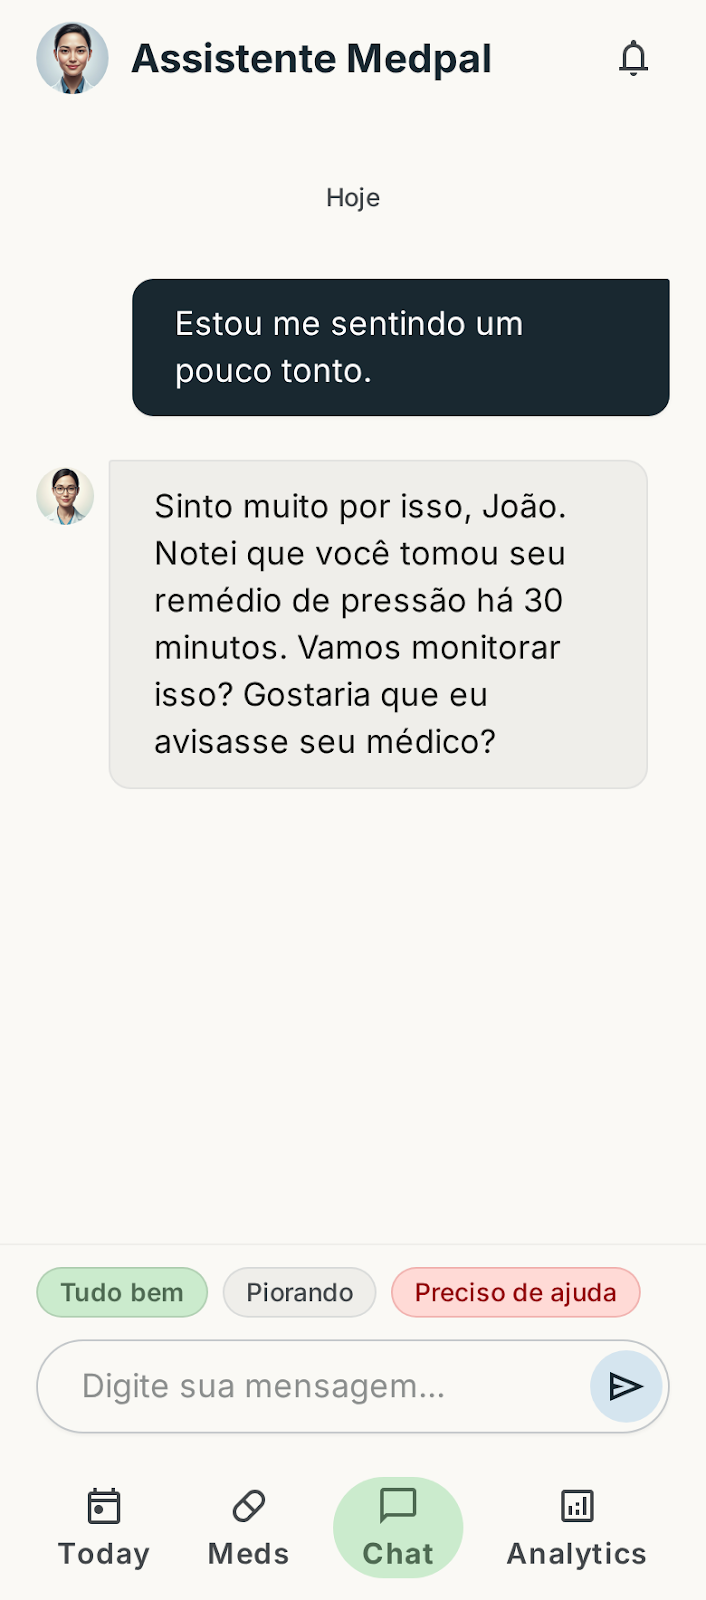
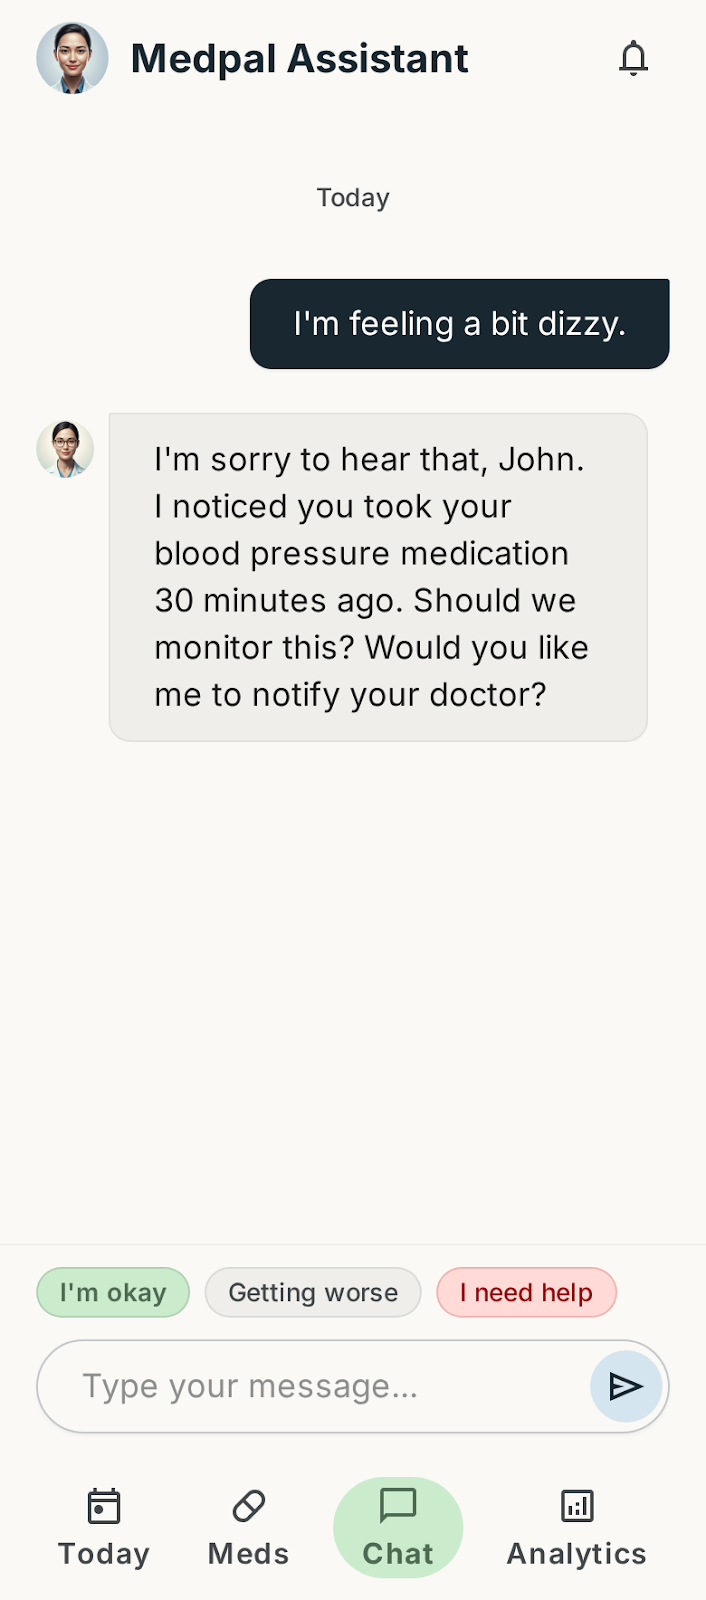
Replace Portuguese screens with English, add caregiver & demo sections
- Swap all app screenshots to English versions (today, meds, chat,
  analytics, hero, patient, doctor benefits)
- Add caregiver/family section with remote monitoring + proactive care
- Add demo section (Try Magic Scan, Talk to Assistant, View Sample Report)
- Update feature list to match feature.md: prescription upload flow,
  INFARMED drug matching, confirmation gate, daily mood check-in
- Update hero CTA to lead with the box price (€19.99)
- Add Caregivers nav link

diff --git a/landing/src/App.jsx b/landing/src/App.jsx
@@ -2,10 +2,10 @@ import { useState } from 'react'
 import './App.css'
 
 const SCREENS = [
-  { id: 'today',     label: 'Today',     src: '/screens/today.png',     title: 'Daily Dose Tracker', desc: "See all your medications for today at a glance. Mark them taken, snooze a reminder, or check what's coming next — in seconds." },
-  { id: 'meds',      label: 'My Meds',   src: '/screens/meds.png',      title: 'Your Digital Medicine Cabinet', desc: 'All your medications in one place. Continuous use, as-needed, and historical records — always organised and up to date.' },
-  { id: 'chat',      label: 'Assistant', src: '/screens/chat.png',       title: 'AI Health Assistant', desc: 'Not feeling well? Tell MedPal. It cross-checks your symptoms with your medication history and connects you to your care team when needed.' },
-  { id: 'analytics', label: 'Reports',   src: '/screens/analytics.png', title: 'Health Reports', desc: 'Track your adherence over time. Share a full medication history with your doctor in one tap — no guesswork, just real data.' },
+  { id: 'today',     label: 'Today',     src: '/screens/today.png',     title: 'Daily Dose Tracker', desc: "See every medication scheduled for today. Mark doses taken, snooze a reminder, or check what's next — in seconds, one-handed." },
+  { id: 'meds',      label: 'My Meds',   src: '/screens/meds.png',      title: 'Your Digital Medicine Cabinet', desc: 'Every medication in one place — daily use, as-needed, and past treatments. Scan a new prescription or add one manually at any time.' },
+  { id: 'chat',      label: 'Assistant', src: '/screens/chat.png',       title: 'MedPal Assistant', desc: "Feeling off? Tell MedPal. It cross-checks your symptoms against your current medications and can alert your doctor or care team if needed." },
+  { id: 'analytics', label: 'Reports',   src: '/screens/analytics.png', title: 'Reports & Adherence', desc: 'Track your adherence over 30 days. Log mood and side effects daily. Flip on Doctor Mode to share a clean summary at your next appointment.' },
 ]
 
 const FEATURE_GROUPS = [
@@ -13,47 +13,49 @@ const FEATURE_GROUPS = [
     category: 'Prescription Management',
     icon: '📋',
     features: [
-      'Automatic sync when your doctor sends a prescription',
-      'Snap any paper prescription — OCR extracts name, dosage & instructions instantly',
-      'Reads handwritten doctor notes accurately',
-      'Supports all standard prescription formats',
+      'Upload any PDF prescription — extracted directly, no AI needed, instant',
+      'Snap a photo of a paper or handwritten prescription — AI reads it in seconds',
+      'Review and confirm every medication before anything is saved — non-skippable safety gate',
+      'Drug names matched against the official INFARMED medical database',
     ],
   },
   {
     category: 'Smart Reminders & Tracking',
     icon: '🔔',
     features: [
-      'Personalised intake reminders based on your exact dosing schedule',
+      'Personalised intake reminders based on your exact schedule and routine',
       'Refill alerts before you run out — no gaps in treatment',
-      'AI voice calls for users who miss app notifications — built for elderly users',
+      'Daily mood check-in and side effect logging — know your patterns over time',
+      'AI voice calls for users who miss app notifications — designed for elderly users',
     ],
   },
   {
     category: 'Pill Organiser Verification',
     icon: '📦',
     features: [
-      'Snap a photo of your MedPal Smart Box',
-      'AI checks each slot — confirms correct medication and dosage',
-      'Flags mismatches or missing pills before you take them',
+      'Snap a photo of your filled MedPal Smart Box',
+      'AI verifies each slot — confirms correct medication and dose',
+      'Flags mismatches or empty slots before you take them',
     ],
   },
   {
     category: 'Medical Support Team',
     icon: '🩺',
     features: [
-      'Real doctors and pharmacists available to answer your prescription questions',
+      'Real doctors and pharmacists answer your prescription questions',
       'AI triages your question and routes it to the right specialist instantly',
-      'Fully context-aware — your team knows your exact prescriptions and history',
-      'No waiting rooms, no hold music — answers when you need them',
+      'Your team knows your exact medications and history — no re-explaining',
+      'No waiting rooms, no hold music',
     ],
   },
   {
     category: 'Analytics & Doctor Connectivity',
     icon: '📊',
     features: [
-      'Visual dashboard of all active, paused, and completed medications',
-      'One-tap sharing of adherence trends and full history with your doctor',
-      'Ready-to-share export for appointments and medical reviews',
+      'Clean dashboard of all active, paused, and completed medications',
+      'One-tap Doctor Mode — share adherence trends and full history instantly',
+      'Side effects and mood logged daily, visible to your care team',
+      'Export-ready report for appointments and medical reviews',
     ],
   },
   {
@@ -61,22 +63,34 @@ const FEATURE_GROUPS = [
     icon: '🎓',
     features: [
       'AI-generated visual guides for your medication or exercise routine',
-      'Step-by-step animated instructions appended to your care plan',
-      'Full calendar sync — your medication schedule in your existing calendar',
+      'Step-by-step animated instructions linked to your care plan',
+      'Full calendar sync — your medication schedule in Google or Apple Calendar',
     ],
   },
 ]
 
 const PATIENT_BENEFITS = [
-  { icon: '🛡', title: 'Safety in every dose', desc: 'Smart reminders adapt to your routine, reducing errors and giving you peace of mind every day.' },
-  { icon: '🤝', title: 'A companion that cares', desc: 'A voice and chat assistant that listens to how you feel and checks in — more than a reminder, a health partner.' },
-  { icon: '⚡', title: 'Zero effort setup', desc: 'Use Magic Scan to configure everything in seconds. Point, scan, done — MedPal handles the rest automatically.' },
+  { icon: '⚡', title: 'Effortless independence', desc: 'Use Magic Scan to set everything up in seconds. Point the camera, confirm your medications, and MedPal organises your entire schedule automatically.' },
+  { icon: '🛡', title: 'Safety in every dose', desc: 'Smart reminders adapt to your routine and confirm you loaded the box correctly. Reduce errors and feel relaxed every day.' },
+  { icon: '🤝', title: 'A friend who cares', desc: 'A voice and chat assistant that listens to how you feel and understands what you are going through — more than an alarm, a companion.' },
+]
+
+const CAREGIVER_BENEFITS = [
+  { icon: '🔔', title: 'Remote monitoring', desc: 'Receive real-time notifications when your family member takes — or forgets — their medication. Stay informed without being intrusive.' },
+  { icon: '📦', title: 'Proactive care', desc: 'MedPal alerts you when medication stocks are running low so you can reorder in time. No last-minute pharmacy runs.' },
+  { icon: '💬', title: 'Always in the loop', desc: 'Access a clear, simple view of their adherence and mood logs — the full picture, without needing to ask.' },
 ]
 
 const DOCTOR_BENEFITS = [
-  { icon: '📋', title: 'Real Adherence Reports', desc: 'See exactly how and when your patient takes their medication. Eliminate guesswork and make better clinical decisions.' },
-  { icon: '⏱', title: 'Optimise Every Consultation', desc: 'Turn 10 minutes of history-taking into a 30-second review. Full medication timeline, ready when you walk in.' },
-  { icon: '⚠', title: 'Interaction Alerts', desc: 'The AI monitors current medications in real time and surfaces potential interactions before they become serious events.' },
+  { icon: '📋', title: 'Real Adherence Reports', desc: 'See exactly when and how your patient takes their medication. Eliminate memory bias. Get a clear overview of the treatment routine between consultations.' },
+  { icon: '⏱', title: 'Consultation Optimisation', desc: 'Transform "Doctor Mode" into a rapid diagnostic tool with clear charts. Spend less time collecting history and more time on direct care.' },
+  { icon: '⚠', title: 'Interaction Alerts', desc: 'The assistant monitors patient-reported symptoms in real time and flags potential serious side effects or drug interactions proactively.' },
+]
+
+const DEMO_CARDS = [
+  { icon: '📷', title: 'Try Magic Scan', desc: 'Add prescriptions instantly using your camera.' },
+  { icon: '💬', title: 'Talk to Assistant', desc: 'Ask questions about your schedule by voice or text.' },
+  { icon: '📊', title: 'View Sample Report', desc: 'Track your adherence with clear charts.' },
 ]
 
 export default function App() {
@@ -94,7 +108,9 @@ export default function App() {
           <div className="nav-links">
             <a href="#features">Features</a>
             <a href="#screens">App</a>
-            <a href="#doctors">For Doctors</a>
+            <a href="#patients">Patients</a>
+            <a href="#doctors">Doctors</a>
+            <a href="#caregivers">Caregivers</a>
           </div>
           <a href="#download" className="btn btn-primary btn-sm">Get Started</a>
         </div>
@@ -105,23 +121,23 @@ export default function App() {
         <div className="hero-inner container">
           <div className="hero-text">
             <span className="badge">Human-First Healthcare</span>
-            <h1>Healthcare that<br /><span className="accent">understands you.</span></h1>
-            <p className="hero-sub">Manage your medications with clinical precision and human warmth. MedPal keeps you on track, keeps your doctor informed, and keeps you feeling supported — every single day.</p>
+            <h1>Care that<br /><span className="accent">understands you.</span></h1>
+            <p className="hero-sub">Manage your medications with technical precision and human warmth. MedPal keeps you on track, your doctor informed, and the people you love at peace — every single day.</p>
             <div className="hero-actions">
-              <a href="#download" className="btn btn-primary">Download Free</a>
+              <a href="#product" className="btn btn-primary">Order the Box — €19.99</a>
               <a href="#screens" className="btn btn-ghost">See how it works →</a>
             </div>
             <div className="hero-stats">
               <div className="stat"><strong>94%</strong><span>average adherence rate</span></div>
               <div className="stat-divider" />
-              <div className="stat"><strong>30 sec</strong><span>to add a prescription</span></div>
+              <div className="stat"><strong>30 sec</strong><span>to scan a prescription</span></div>
               <div className="stat-divider" />
-              <div className="stat"><strong>24/7</strong><span>AI companion</span></div>
+              <div className="stat"><strong>24/7</strong><span>medical support team</span></div>
             </div>
           </div>
           <div className="hero-image">
             <div className="phone-frame">
-              <img src="/screens/hero.png" alt="MedPal app hero screen" />
+              <img src="/screens/hero.png" alt="MedPal app" />
             </div>
           </div>
         </div>
@@ -133,7 +149,7 @@ export default function App() {
           <div className="section-header">
             <span className="badge">Everything Included</span>
             <h2>Six systems.<br />One box.</h2>
-            <p>MedPal combines hardware, AI, and clinical tools into a single product that works for patients, carers, and doctors alike.</p>
+            <p>MedPal combines hardware, AI, and a real medical team into a single product that works for patients, carers, and doctors alike.</p>
           </div>
           <div className="features-grid">
             {FEATURE_GROUPS.map(g => (
@@ -162,18 +178,18 @@ export default function App() {
             <div className="product-info">
               <span className="badge badge-green">The Product</span>
               <h2>The box that keeps everything on track.</h2>
-              <p className="product-lead">The <strong>MedPal Smart Box</strong> is a 7×4 weekly pill organiser with 28 individual compartments — one for each time of day, every day of the week. Built for clarity, built for independence.</p>
+              <p className="product-lead">The <strong>MedPal Smart Box</strong> is a 7×4 weekly pill organiser with 28 compartments — one for each time of day, every day of the week. Pair it with the app and it becomes a smart, connected system.</p>
               <ul className="product-features">
                 <li><span>✓</span> 28 compartments — Morning, Afternoon, Evening, Night</li>
-                <li><span>✓</span> Syncs with the MedPal app automatically</li>
-                <li><span>✓</span> Compact, travel-friendly design</li>
-                <li><span>✓</span> Transparent lid for quick visual check</li>
-                <li><span>✓</span> App included — no subscription</li>
+                <li><span>✓</span> Scan the box to verify each slot is filled correctly</li>
+                <li><span>✓</span> Compact, travel-friendly, transparent lid</li>
+                <li><span>✓</span> App included — no subscription, ever</li>
+                <li><span>✓</span> Medical support team included</li>
               </ul>
               <div className="product-price-block">
                 <div className="product-price">
                   <span className="price-value">€19.99</span>
-                  <span className="price-note">Box + App. One-time payment.</span>
+                  <span className="price-note">Box + App + Medical Support. One-time payment.</span>
                 </div>
                 <a href="#download" className="btn btn-primary">Order Now</a>
               </div>
@@ -226,8 +242,8 @@ export default function App() {
             </div>
             <div className="benefits-text">
               <span className="badge badge-green">For Patients</span>
-              <h2>Your health,<br />back in your hands.</h2>
-              <p className="benefits-lead">Simplify your care routine with an intelligent assistant that understands every step of your treatment.</p>
+              <h2>Your health back<br />in your hands.</h2>
+              <p className="benefits-lead">Simplify your care routine with a smart assistant that understands and protects every step of your treatment.</p>
               <ul className="benefit-list">
                 {PATIENT_BENEFITS.map(b => (
                   <li key={b.title} className="benefit-item">
@@ -239,7 +255,37 @@ export default function App() {
                   </li>
                 ))}
               </ul>
-              <a href="#download" className="btn btn-primary">Start for Free</a>
+              <a href="#download" className="btn btn-primary">Start Now</a>
+            </div>
+          </div>
+        </div>
+      </section>
+
+      {/* CAREGIVER BENEFITS */}
+      <section className="benefits benefits-sage section" id="caregivers">
+        <div className="container">
+          <div className="benefits-inner">
+            <div className="benefits-text">
+              <span className="badge badge-green">For Caregivers & Family</span>
+              <h2>The peace of mind of knowing they are well.</h2>
+              <p className="benefits-lead">MedPal is the ideal partner for caregivers and family. Follow the health routine of those you love with safety, clarity, and empathy.</p>
+              <ul className="benefit-list">
+                {CAREGIVER_BENEFITS.map(b => (
+                  <li key={b.title} className="benefit-item">
+                    <span className="benefit-icon">{b.icon}</span>
+                    <div>
+                      <strong>{b.title}</strong>
+                      <p>{b.desc}</p>
+                    </div>
+                  </li>
+                ))}
+              </ul>
+              <a href="#download" className="btn btn-primary">Start Now</a>
+            </div>
+            <div className="benefits-image">
+              <div className="phone-frame phone-frame-sm">
+                <img src="/screens/caregiver.png" alt="Caregiver view" />
+              </div>
             </div>
           </div>
         </div>
@@ -251,8 +297,8 @@ export default function App() {
           <div className="benefits-inner benefits-inner-reverse">
             <div className="benefits-text">
               <span className="badge badge-light">For Healthcare Professionals</span>
-              <h2>Precise data for safer clinical decisions.</h2>
-              <p className="benefits-lead">Transform patient follow-up into a real-time view of their treatment journey — backed by actual data, not memory.</p>
+              <h2>Precise data for safe clinical decisions.</h2>
+              <p className="benefits-lead">Transform patient monitoring with real-time insights. MedPal connects you to the treatment journey — empathy backed by real data.</p>
               <ul className="benefit-list">
                 {DOCTOR_BENEFITS.map(b => (
                   <li key={b.title} className="benefit-item">
@@ -292,6 +338,37 @@ export default function App() {
         </div>
       </section>
 
+      {/* DEMO */}
+      <section className="demo section" id="demo">
+        <div className="container">
+          <div className="section-header">
+            <span className="badge">Try It First</span>
+            <h2>Explore MedPal.</h2>
+            <p>Discover how we simplify your health routine before committing to anything.</p>
+          </div>
+          <div className="demo-inner">
+            <div className="demo-phone">
+              <div className="phone-frame">
+                <img src="/screens/demo.png" alt="MedPal demo mode" />
+              </div>
+            </div>
+            <div className="demo-cards">
+              {DEMO_CARDS.map(c => (
+                <div className="demo-card" key={c.title}>
+                  <span className="demo-icon">{c.icon}</span>
+                  <div>
+                    <strong>{c.title}</strong>
+                    <p>{c.desc}</p>
+                  </div>
+                  <span className="demo-arrow">→</span>
+                </div>
+              ))}
+              <a href="#download" className="btn btn-primary" style={{marginTop: '8px'}}>Create My Account</a>
+            </div>
+          </div>
+        </div>
+      </section>
+
       {/* DOWNLOAD CTA */}
       <section className="download section" id="download">
         <div className="container">
@@ -316,11 +393,12 @@ export default function App() {
       <footer className="footer">
         <div className="container footer-inner">
           <span className="nav-logo"><span className="logo-mark">✚</span> MedPal</span>
-          <p className="footer-copy">© 2024 MedPal Health. Human-First Healthcare.</p>
+          <p className="footer-copy">© 2024 MedPal Health. Human-First medication management.</p>
           <div className="footer-links">
             <a href="#">Features</a>
             <a href="#">Privacy Policy</a>
             <a href="#">Support</a>
+            <a href="#">Download</a>
           </div>
         </div>
       </footer>

diff --git a/landing/src/App.css b/landing/src/App.css
@@ -111,6 +111,21 @@
 .benefits-dark .benefits-lead { color: rgba(255,255,255,0.7); }
 .benefits-dark .benefit-item p { color: rgba(255,255,255,0.65); }
 
+.benefits-sage { background: var(--secondary-container); }
+.benefits-sage .benefits-lead { color: var(--on-surface-variant); }
+
+/* ── Demo ─────────────────────────────────────── */
+.demo { background: var(--surface-low); }
+.demo-inner { display: grid; grid-template-columns: auto 1fr; gap: 80px; align-items: center; max-width: 900px; margin: 0 auto; }
+.demo-phone .phone-frame img { max-height: 480px; object-fit: cover; object-position: top; }
+.demo-cards { display: flex; flex-direction: column; gap: 16px; }
+.demo-card { display: flex; align-items: center; gap: 16px; background: var(--surface); padding: 20px 24px; border-radius: 14px; border: 1px solid var(--outline-variant); transition: box-shadow 0.2s, transform 0.15s; cursor: pointer; }
+.demo-card:hover { box-shadow: 0 6px 24px rgba(25,40,48,0.08); transform: translateX(4px); }
+.demo-icon { font-size: 28px; flex-shrink: 0; }
+.demo-card strong { display: block; font-size: 16px; font-weight: 600; margin-bottom: 2px; }
+.demo-card p { font-size: 14px; color: var(--on-surface-variant); margin: 0; }
+.demo-arrow { font-size: 18px; color: var(--outline); margin-left: auto; flex-shrink: 0; }
+
 /* ── Testimonial ─────────────────────────────── */
 .testimonial { background: var(--surface-low); }
 .testimonial-card { max-width: 720px; margin: 0 auto; text-align: center; padding: 56px 48px; background: var(--surface); border-radius: 24px; border: 1px solid var(--outline-variant); position: relative; }
